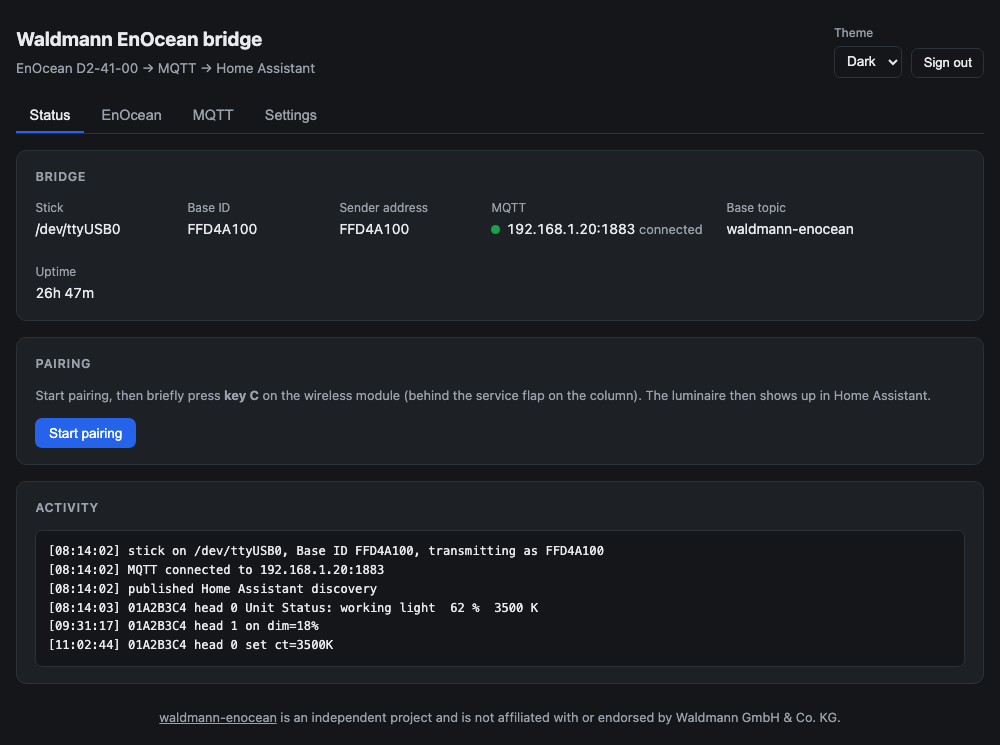
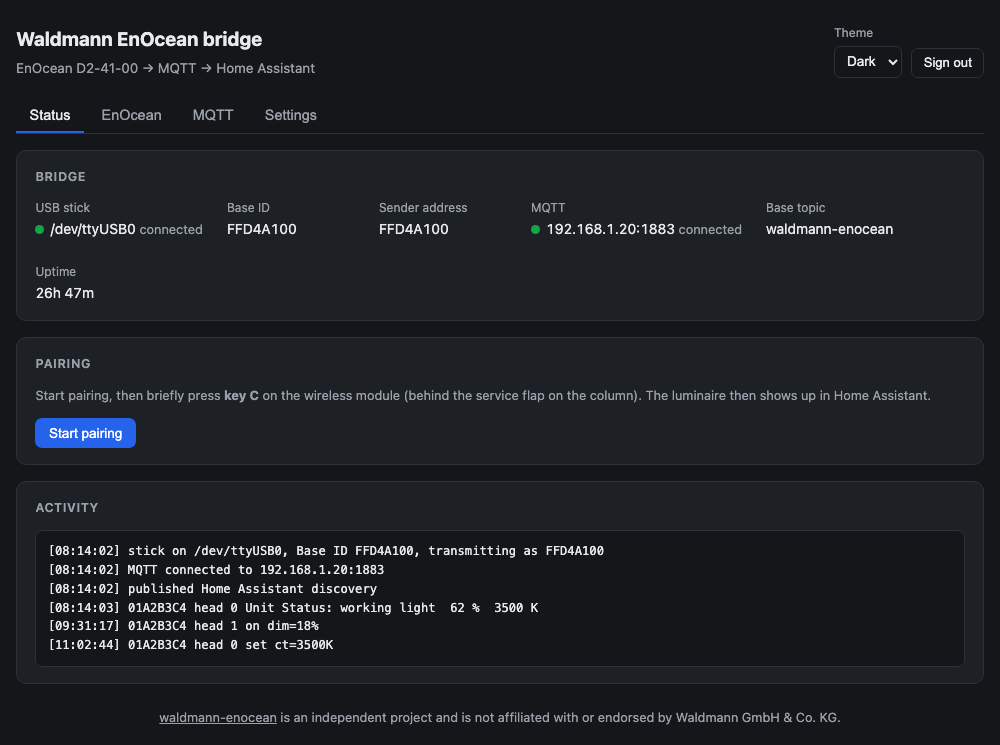
Keep running when the USB stick is missing
Fixes the web UI being unreachable when the stick is missing or
unplugged. The bridge now retries until the stick is back, and port
changes apply without a restart.

diff --git a/src/waldmann_enocean/bridge/index.html b/src/waldmann_enocean/bridge/index.html
@@ -278,7 +278,7 @@ const FIELD_GROUPS = {
 // because it has to check the current password before it changes anything.
 const CREDENTIAL_KEYS = ["web_username","web_current","web_new"];
 const GROUP_HINTS = {
-  "Radio": "The EnOcean USB stick. Changes to the port or baud rate apply after a restart.",
+  "Radio": "The EnOcean USB stick. Changes apply immediately.",
   "MQTT broker": "The broker Home Assistant uses. Changes apply immediately.",
   "Web interface": "Where this page is served. Changes apply after a restart.",
   "Sign-in": "Saving a new username or password signs out every session, including this one."
@@ -439,6 +439,10 @@ document.querySelectorAll('.tabs button').forEach(b => b.onclick = () => {
 const mqttCell = s => `<span class="dot ${s.mqtt_connected ? 'ok' : 'bad'}"></span>` +
   esc(s.mqtt_host) + ' <span class="hint">' +
   (s.mqtt_connected ? 'connected' : esc(s.mqtt_error || 'not connected')) + '</span>';
+const stickCell = s => `<span class="dot ${s.stick_connected ? 'ok' : 'bad'}"></span>` +
+  (s.stick_connected ? esc(s.port) + ' <span class="hint">connected</span>'
+    : 'Not connected <span class="hint">' + esc(s.stick_error || 'looking for it') +
+      ', retrying</span>');
 const withUnit = (v, unit) => v == null ? '-' : esc(v) + unit;
 // the decoder's words ("working light"), capitalised to match the drop-downs
 const word = v => v == null ? '-' : esc(String(v).charAt(0).toUpperCase() + String(v).slice(1));
@@ -457,7 +461,7 @@ async function refresh() {
   const s = await api('/api/state');
   if (!s.devices) return;
   setHTML($('#status'), [
-    ['Stick', esc(s.port || '-')], ['Base ID', esc(s.base_id || '-')],
+    ['USB stick', stickCell(s)], ['Base ID', esc(s.base_id || '-')],
     ['Sender address', esc(s.sender || '-')], ['MQTT', mqttCell(s)],
     ['Base topic', esc(s.base_topic)],
     ['Uptime', Math.floor(s.uptime / 3600) + 'h ' + Math.floor(s.uptime % 3600 / 60) + 'm']
@@ -471,8 +475,9 @@ async function refresh() {
       pairKnown = null; pairSeen = false;
     }
   }
-  $('#pairnote').textContent = s.pairing ? `Press key C now (${s.pairing_left} s left).` : pairResult;
-  $('#pair').disabled = s.pairing;
+  $('#pairnote').textContent = s.pairing ? `Press key C now (${s.pairing_left} s left).`
+    : s.stick_connected ? pairResult : 'Pairing needs the USB stick.';
+  $('#pair').disabled = s.pairing || !s.stick_connected;
   $('#pairstop').hidden = !s.pairing;
 
   // Follow new lines only if you're already at the bottom, so scrolling back
@@ -508,8 +513,8 @@ async function refresh() {
   setHTML(sel, s.devices.map(d => `<option>${esc(d.id)}</option>`).join(''));
   if (keep) sel.value = keep;
   syncHeads();
-  // with nothing paired every command would only come back with an error
-  document.querySelectorAll('#tab-enocean .cmd button').forEach(b => b.disabled = !s.devices.length);
+  document.querySelectorAll('#tab-enocean .cmd button')
+    .forEach(b => b.disabled = !s.devices.length || !s.stick_connected);
   renderMqtt(s);
 }
 
@@ -608,7 +613,10 @@ $('#pair').onclick = async () => {
   pairSeen = false;
   pairResult = '';
   const r = await api('/api/pair', {});
-  if (!r.ok) { pairKnown = null; $('#pair').disabled = false; return; }
+  if (!r.ok) {
+    pairKnown = null; pairResult = r.error || 'Pairing didn\'t start.';
+    $('#pair').disabled = false; refresh(); return;
+  }
   setTimeout(refresh, 400);
 };
 $('#pairstop').onclick = async () => { await api('/api/pair/stop', {}); setTimeout(refresh, 400); };

diff --git a/src/waldmann_enocean/bridge/core.py b/src/waldmann_enocean/bridge/core.py
@@ -8,6 +8,7 @@ loop drains.  Other threads may only read, and then through copies (see
 
 from __future__ import annotations
 
+import errno
 import json
 import logging
 import queue
@@ -18,6 +19,8 @@ from dataclasses import dataclass, field
 from datetime import datetime, timezone
 from pathlib import Path
 from typing import Any
+
+import serial
 
 from ..protocol import (
     ENVIRONMENTAL_DATA,
@@ -43,8 +46,8 @@ from ..protocol import (
     Device,
     Dongle,
     Radio,
-    autodetect_port,
     build_ute_response,
+    candidate_ports,
     decode_d2_41_00,
     encode_get,
     encode_set_unit_data,
@@ -62,6 +65,8 @@ except ImportError as exc:  # pragma: no cover
     raise SystemExit("paho-mqtt is missing.  Install it with: pip install paho-mqtt") from exc
 
 LOG = logging.getLogger("waldmann_enocean.bridge")
+
+STICK_RETRY = 5.0
 
 GET_NAMES = {
     "status": GET_UNIT_STATUS,
@@ -82,6 +87,10 @@ class UnitState:
     announced_sensors: set[str] = field(default_factory=set)
 
 
+class NoStick(Exception):
+    pass
+
+
 class Bridge:
     def __init__(self, config: Config, store_path: Path) -> None:
         self.config = config
@@ -98,6 +107,8 @@ class Bridge:
         self.mqtt_error = ""
         self.base_id = b""
         self.dongle: Dongle | None = None
+        self.stick_error = ""
+        self._next_stick_try = 0.0
         self.client: Any = None
         self._next_poll = 0.0
         self._next_maintenance = 0.0
@@ -221,7 +232,8 @@ class Bridge:
             self.mqtt_connected = True
             self.mqtt_error = ""
             self.note(f"MQTT connected to {self.config.mqtt_host}:{self.config.mqtt_port}")
-            client.publish(self.topics.availability(), "online", retain=True)
+            client.publish(self.topics.availability(),
+                           "online" if self.dongle else "offline", retain=True)
             base = self.config.base_topic
             # "+" must be a whole topic level - "unit+" is not a legal filter.
             # base/+/+/set covers both unitN/set and refresh/set, and
@@ -310,6 +322,8 @@ class Bridge:
                     if entry.fields:
                         self.publish(self.topics.state(device_id, unit),
                                      self.state_payload(entry))
+        # _on_connect runs on paho's thread and can race the stick opening
+        self.publish(self.topics.availability(), "online" if self.dongle else "offline")
         self.note("published Home Assistant discovery")
 
     def announce_unit(self, device_id: str, unit: int) -> None:
@@ -367,7 +381,8 @@ class Bridge:
     # -- radio --------------------------------------------------------------
 
     def send_vld(self, device_id: str, payload: bytes, summary: str = "") -> None:
-        assert self.dongle is not None
+        if self.dongle is None:
+            raise NoStick
         self.dongle.send_radio(
             RORG_VLD, payload, sender=self.sender_for(device_id),
             destination=bytes.fromhex(device_id),
@@ -467,6 +482,8 @@ class Bridge:
 
     def run_command(self, name: str, args: tuple[Any, ...]) -> None:
         if name == "pair":
+            if self.dongle is None:
+                raise NoStick
             window = args[0] if args else self.config.pair_window
             self.pair_until = time.monotonic() + window
             self.note(f"pairing open for {int(window)}s - briefly press key C on the module")
@@ -503,6 +520,10 @@ class Bridge:
             self.republish_discovery()
         elif name == "reconnect_mqtt":
             self.reconnect_mqtt()
+        elif name == "reopen_stick":
+            if self.dongle is not None:
+                self.close_stick("reopening the USB stick with the new settings")
+            self._next_stick_try = 0.0
 
     def lit_mode(self, device_id: str, unit: int) -> int:
         """A mode that produces light: the head's own, or working light.
@@ -617,33 +638,99 @@ class Bridge:
     # -- main loop ----------------------------------------------------------
 
     def run(self) -> None:
-        port = self.config.port or autodetect_port()
-        self.dongle = Dongle(port, self.config.baudrate)
-        self.base_id = self.dongle.base_id()
-        self.note(f"stick on {port}, Base ID {self.base_id.hex().upper()}, "
-                  f"transmitting as {self.sender().hex().upper()}")
         self.connect_mqtt()
         try:
             while True:
-                while True:
-                    try:
-                        name, args = self.commands.get_nowait()
-                    except queue.Empty:
-                        break
-                    try:
-                        self.run_command(name, args)
-                    except Exception:
-                        LOG.exception("command %s failed", name)
-                radio = self.dongle.read_radio(0.2)
-                if radio is not None:
-                    try:
-                        self.handle_radio(radio)
-                    except Exception:
-                        LOG.exception("failed handling telegram")
-                self.periodic()
+                if self.dongle is None and not self.open_stick():
+                    self.run_commands()
+                    time.sleep(0.2)
+                    continue
+                try:
+                    self.run_commands()
+                    if self.dongle is None:  # closed by reopen_stick
+                        continue
+                    radio = self.dongle.read_radio(0.2)
+                    if radio is not None:
+                        try:
+                            self.handle_radio(radio)
+                        except serial.SerialException:
+                            raise
+                        except Exception:
+                            LOG.exception("failed handling telegram")
+                    self.periodic()
+                except serial.SerialException as exc:
+                    self.close_stick(f"lost the USB stick: {exc}")
         finally:
             self.publish(self.topics.availability(), "offline")
-            self.dongle.close()
+            if self.dongle is not None:
+                self.dongle.close()
+
+    def run_commands(self) -> None:
+        while True:
+            try:
+                name, args = self.commands.get_nowait()
+            except queue.Empty:
+                return
+            try:
+                self.run_command(name, args)
+            except NoStick:
+                self.note(f"{name} not sent: the USB stick isn't connected")
+            except serial.SerialException:
+                raise
+            except Exception:
+                LOG.exception("command %s failed", name)
+
+    def open_stick(self) -> bool:
+        now = time.monotonic()
+        if now < self._next_stick_try:
+            return False
+        self._next_stick_try = now + STICK_RETRY
+        found = candidate_ports()
+        port = self.config.port or (found[0] if found else "")
+        if not port:
+            return self.stick_missing("no EnOcean USB stick found")
+        try:
+            dongle = Dongle(port, self.config.baudrate)
+        except (serial.SerialException, OSError) as exc:
+            reason = {
+                errno.ENOENT: "it doesn't exist",
+                errno.EACCES: "permission denied, is the user in group dialout?",
+                errno.EBUSY: "it's in use by another program",
+            }.get(getattr(exc, "errno", None), str(exc))
+            return self.stick_missing(f"can't open {port}: {reason}")
+        try:
+            base_id = dongle.base_id()
+        except (serial.SerialException, OSError, RuntimeError) as exc:
+            dongle.close()
+            return self.stick_missing(f"no EnOcean stick answering on {port}: {exc}")
+        self.dongle, self.base_id, self.stick_error = dongle, base_id, ""
+        others = [p for p in found if p != port]
+        self.note(f"stick on {port}, Base ID {base_id.hex().upper()}, "
+                  f"transmitting as {self.sender().hex().upper()}"
+                  + (f" (also found {', '.join(others)})" if others and not self.config.port else ""))
+        self.publish(self.topics.availability(), "online")
+        self._next_poll = 0.0
+        return True
+
+    def stick_missing(self, problem: str) -> bool:
+        if problem != self.stick_error:
+            self.note(f"{problem}, retrying every {STICK_RETRY:g} s")
+        self.stick_error = problem
+        return False
+
+    def close_stick(self, reason: str) -> None:
+        self.note(reason)
+        if self.dongle is not None:
+            try:
+                self.dongle.close()
+            except Exception:
+                LOG.debug("error closing the USB stick", exc_info=True)
+        self.dongle, self.base_id = None, b""
+        self.stick_error = reason
+        self.pair_until = 0.0
+        self._followups = []
+        self.publish(self.topics.availability(), "offline")
+        self._next_stick_try = time.monotonic() + STICK_RETRY
 
     def periodic(self) -> None:
         now = time.monotonic()
@@ -682,6 +769,8 @@ class Bridge:
         return {
             "uptime": int(time.time() - self.started),
             "port": self.dongle.port if self.dongle else "",
+            "stick_connected": self.dongle is not None,
+            "stick_error": self.stick_error,
             "base_id": self.base_id.hex().upper(),
             "sender": self.sender().hex().upper(),
             "mqtt_connected": self.mqtt_connected,

diff --git a/src/waldmann_enocean/bridge/web.py b/src/waldmann_enocean/bridge/web.py
@@ -179,6 +179,8 @@ def make_handler(bridge: Bridge, config_path: Path):
                 return self._deny()
 
             if path == "/api/pair":
+                if bridge.dongle is None:
+                    return self._json({"error": "The USB stick isn't connected."})
                 seconds = int(data.get("seconds") or bridge.config.pair_window)
                 bridge.commands.put(("pair", (seconds,)))
                 return self._json({"ok": True})
@@ -209,6 +211,8 @@ def make_handler(bridge: Bridge, config_path: Path):
             action = str(data.get("action", ""))
             if device not in bridge.devices:
                 return {"error": "Unknown luminaire."}
+            if bridge.dongle is None:
+                return {"error": "The USB stick isn't connected."}
             if action == "get":
                 which = str(data.get("value", "status"))
                 if which not in GET_NAMES:
@@ -239,6 +243,8 @@ def make_handler(bridge: Bridge, config_path: Path):
             device = str(data.get("device", "")).upper()
             if device not in bridge.devices:
                 return {"error": "Unknown luminaire."}
+            if bridge.dongle is None:
+                return {"error": "The USB stick isn't connected."}
             try:
                 payload = bytes.fromhex(str(data.get("hex", "")).replace(" ", ""))
             except ValueError:
@@ -301,12 +307,14 @@ def make_handler(bridge: Bridge, config_path: Path):
             changed = list(updates)
             config.save(config_path)
             bridge.note(f"configuration updated: {', '.join(changed) or 'no changes'}")
-            # MQTT settings are applied live; only the serial port and the web
-            # listener itself need the service restarted.
+            # MQTT and stick settings are applied live; only the web listener
+            # itself needs the service restarted.
             if any(k.startswith("mqtt_") or k in ("base_topic", "discovery_prefix")
                    for k in changed):
                 bridge.commands.put(("reconnect_mqtt", ()))
-            restart = any(k in ("port", "baudrate") or k.startswith("web_") for k in changed)
+            if any(k in ("port", "baudrate") for k in changed):
+                bridge.commands.put(("reopen_stick", ()))
+            restart = any(k.startswith("web_") for k in changed)
             return {"ok": True, "changed": changed, "restart_required": restart}
 
     return Handler

diff --git a/tools/screenshots.py b/tools/screenshots.py
@@ -29,6 +29,8 @@ BASE = "waldmann-enocean"
 STATE = {
     "uptime": 96_420,
     "port": "/dev/ttyUSB0",
+    "stick_connected": True,
+    "stick_error": "",
     "base_id": "FFD4A100",
     "sender": "FFD4A100",
     "mqtt_connected": True,

diff --git a/README.md b/README.md
@@ -33,8 +33,10 @@ D2-41-00 and the UTE teach-in directly from the EEP tables. (No dependencies on
 | Profile | [D2-41-00](https://www.enocean-alliance.org/wp-content/uploads/2022/10/D2-41-00.pdf) |
 
 The serial port is detected automatically (`/dev/cu.usbserial-*`,
-`/dev/ttyUSB*`, `/dev/serial/by-id/*EnOcean*`). Use `--port` to set it
-yourself.
+`/dev/ttyUSB*`, `/dev/serial/by-id/*EnOcean*`). You can also set it under
+**Settings** or with `--port`. If the bridge can't find or open the stick, the
+Status tab says why, and the bridge keeps trying until it's there. Unplugging
+the stick while it's running works the same way.
 
 ## Install
 
@@ -61,9 +63,8 @@ sudo journalctl -u waldmann-enocean | grep -A3 "password generated"
 
 Open `http://<host>:8099/`, log in and enter your MQTT broker under
 **Settings**. No command-line options are needed. The broker defaults to
-`127.0.0.1:1883` and everything else can be set in the UI. MQTT changes are
-applied right away, only changing the serial port or the web port needs a
-restart.
+`127.0.0.1:1883` and everything else can be set in the UI. Changes are applied
+right away, only changing the web port needs a restart.
 
 The web UI uses plain HTTP. That's fine on your own network, but put a reverse
 proxy with TLS in front of it if you want to reach it from outside.
